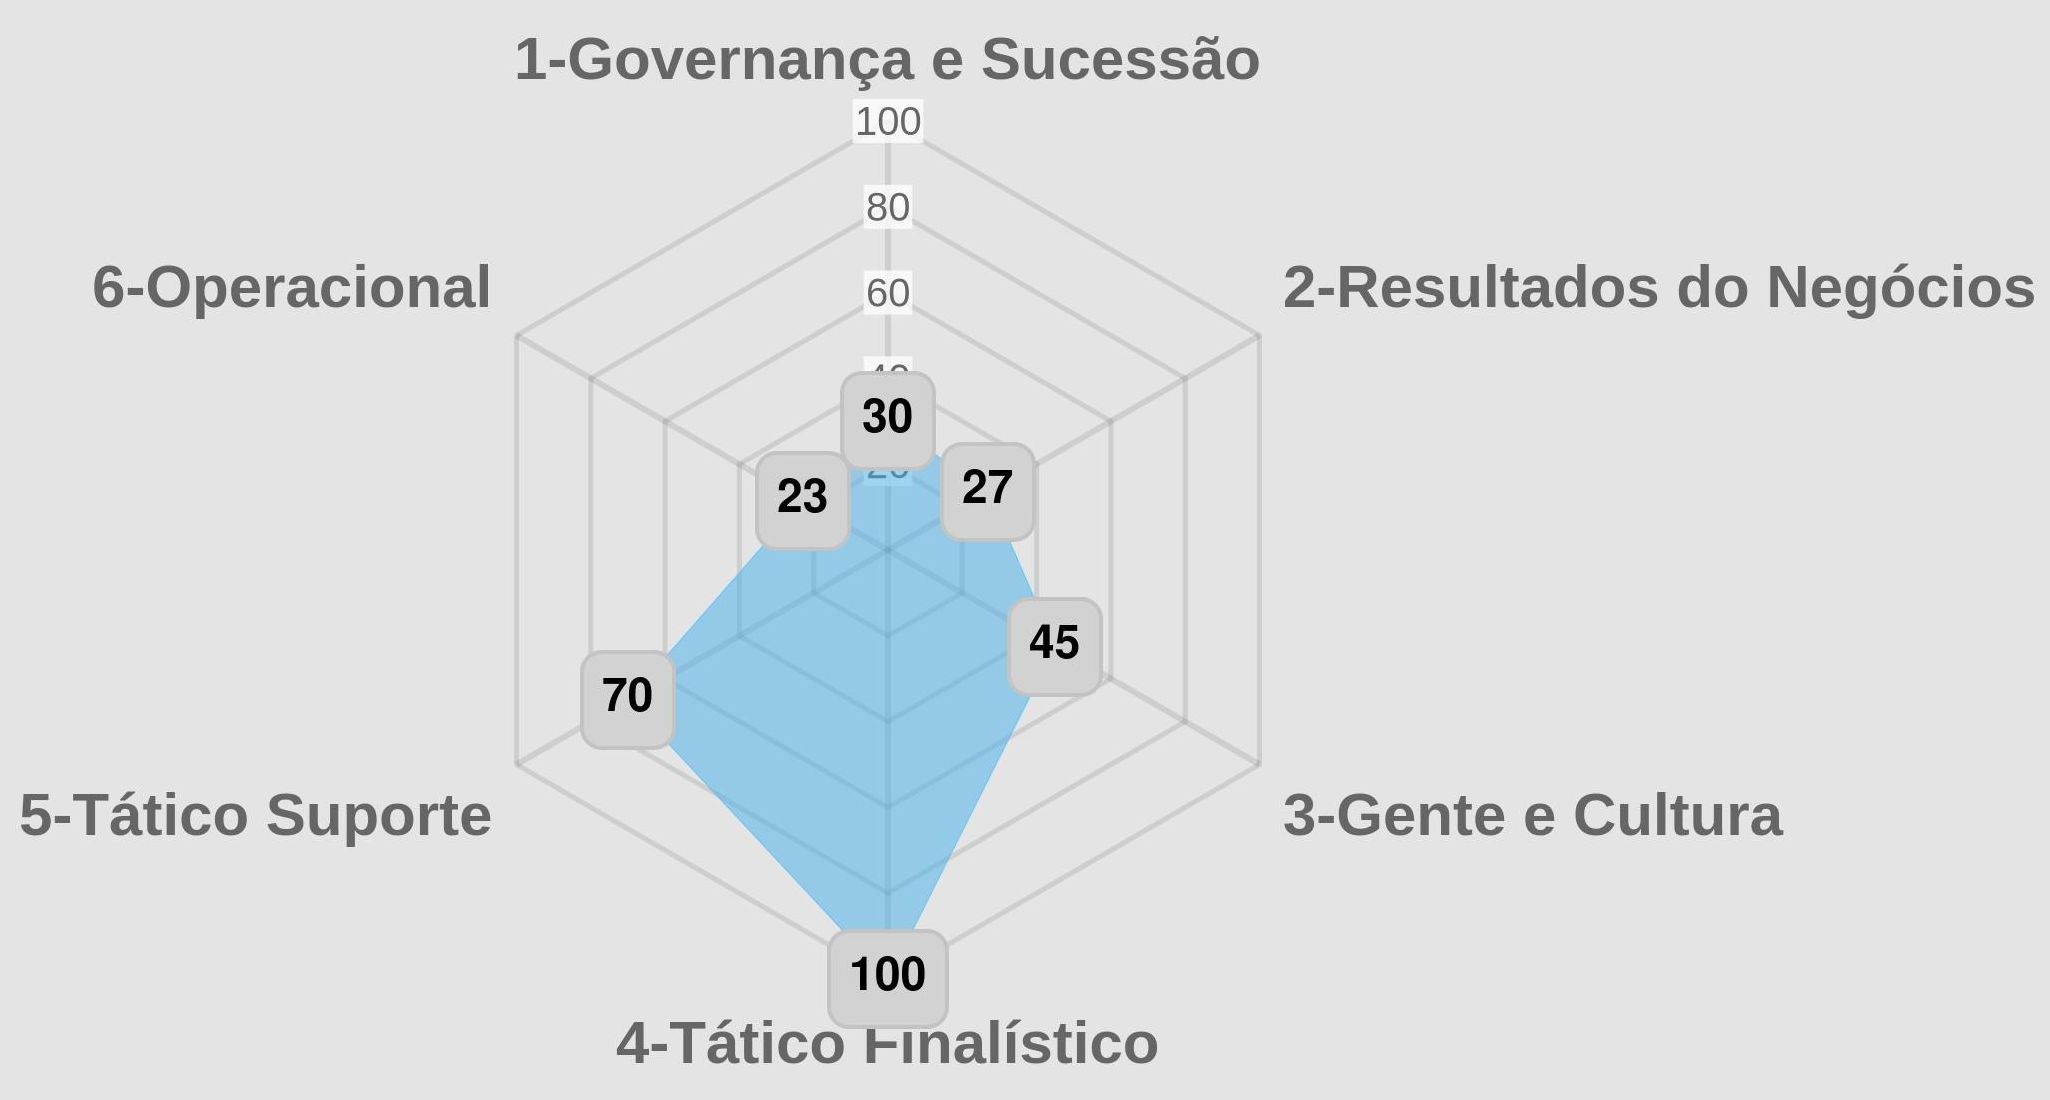
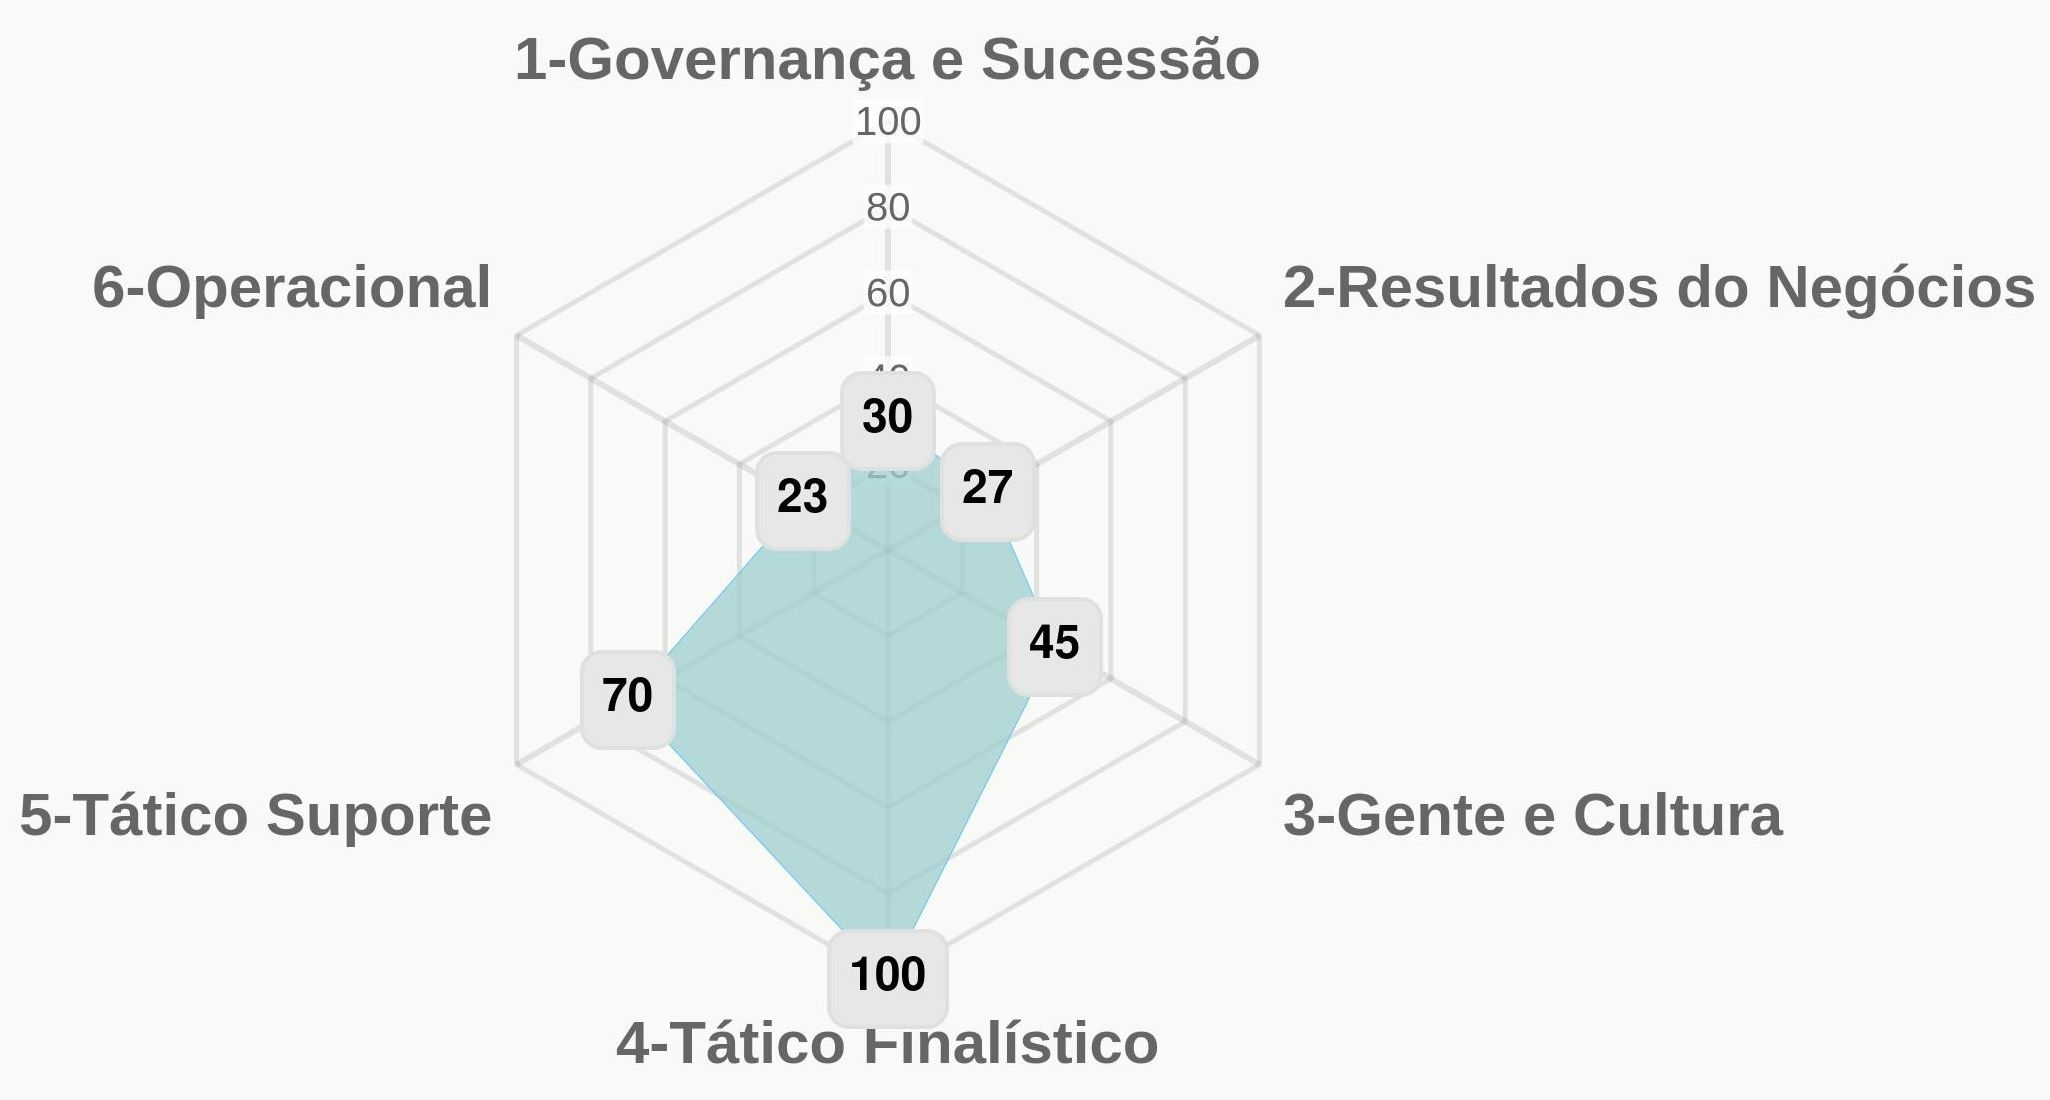
style: updated chart colors

diff --git a/src/services/chartConfig.js b/src/services/chartConfig.js
@@ -18,7 +18,7 @@ exports.getRadarBarConfig = (dataset) => {
         {
           data: dataset,
           fill: true,
-          backgroundColor: "rgba(69, 177, 235, 0.5)",
+          backgroundColor: "rgba(159, 205, 207, 0.75)",
           borderColor: "rgb(97, 194, 255)",
           borderWidth: 1,
         },
@@ -77,9 +77,9 @@ exports.getRadarBarConfig = (dataset) => {
             size: 47,
             weight: 600,
           },
-          backgroundColor: "rgb(210, 210, 210)",
+          backgroundColor: "rgb(231, 231, 231)",
           borderWidth: 4,
-          borderColor: "rgba(195, 195, 195, 1)",
+          borderColor: "rgba(224, 224, 224, 1)",
           borderRadius: 20,
           padding: 18,
           formatter: (value) => value,

diff --git a/src/services/chartRenderer.js b/src/services/chartRenderer.js
@@ -4,7 +4,7 @@ exports.renderChartToBuffer = async (config) => {
   const chartJSNodeCanvas = new ChartJSNodeCanvas({
     width: 2200,
     height: 1800,
-    backgroundColour: "rgba(228, 228, 228, 1)",
+    backgroundColour: "rgba(249, 249, 248, 1)",
     devicePixelRatio: 6,
   });
 
